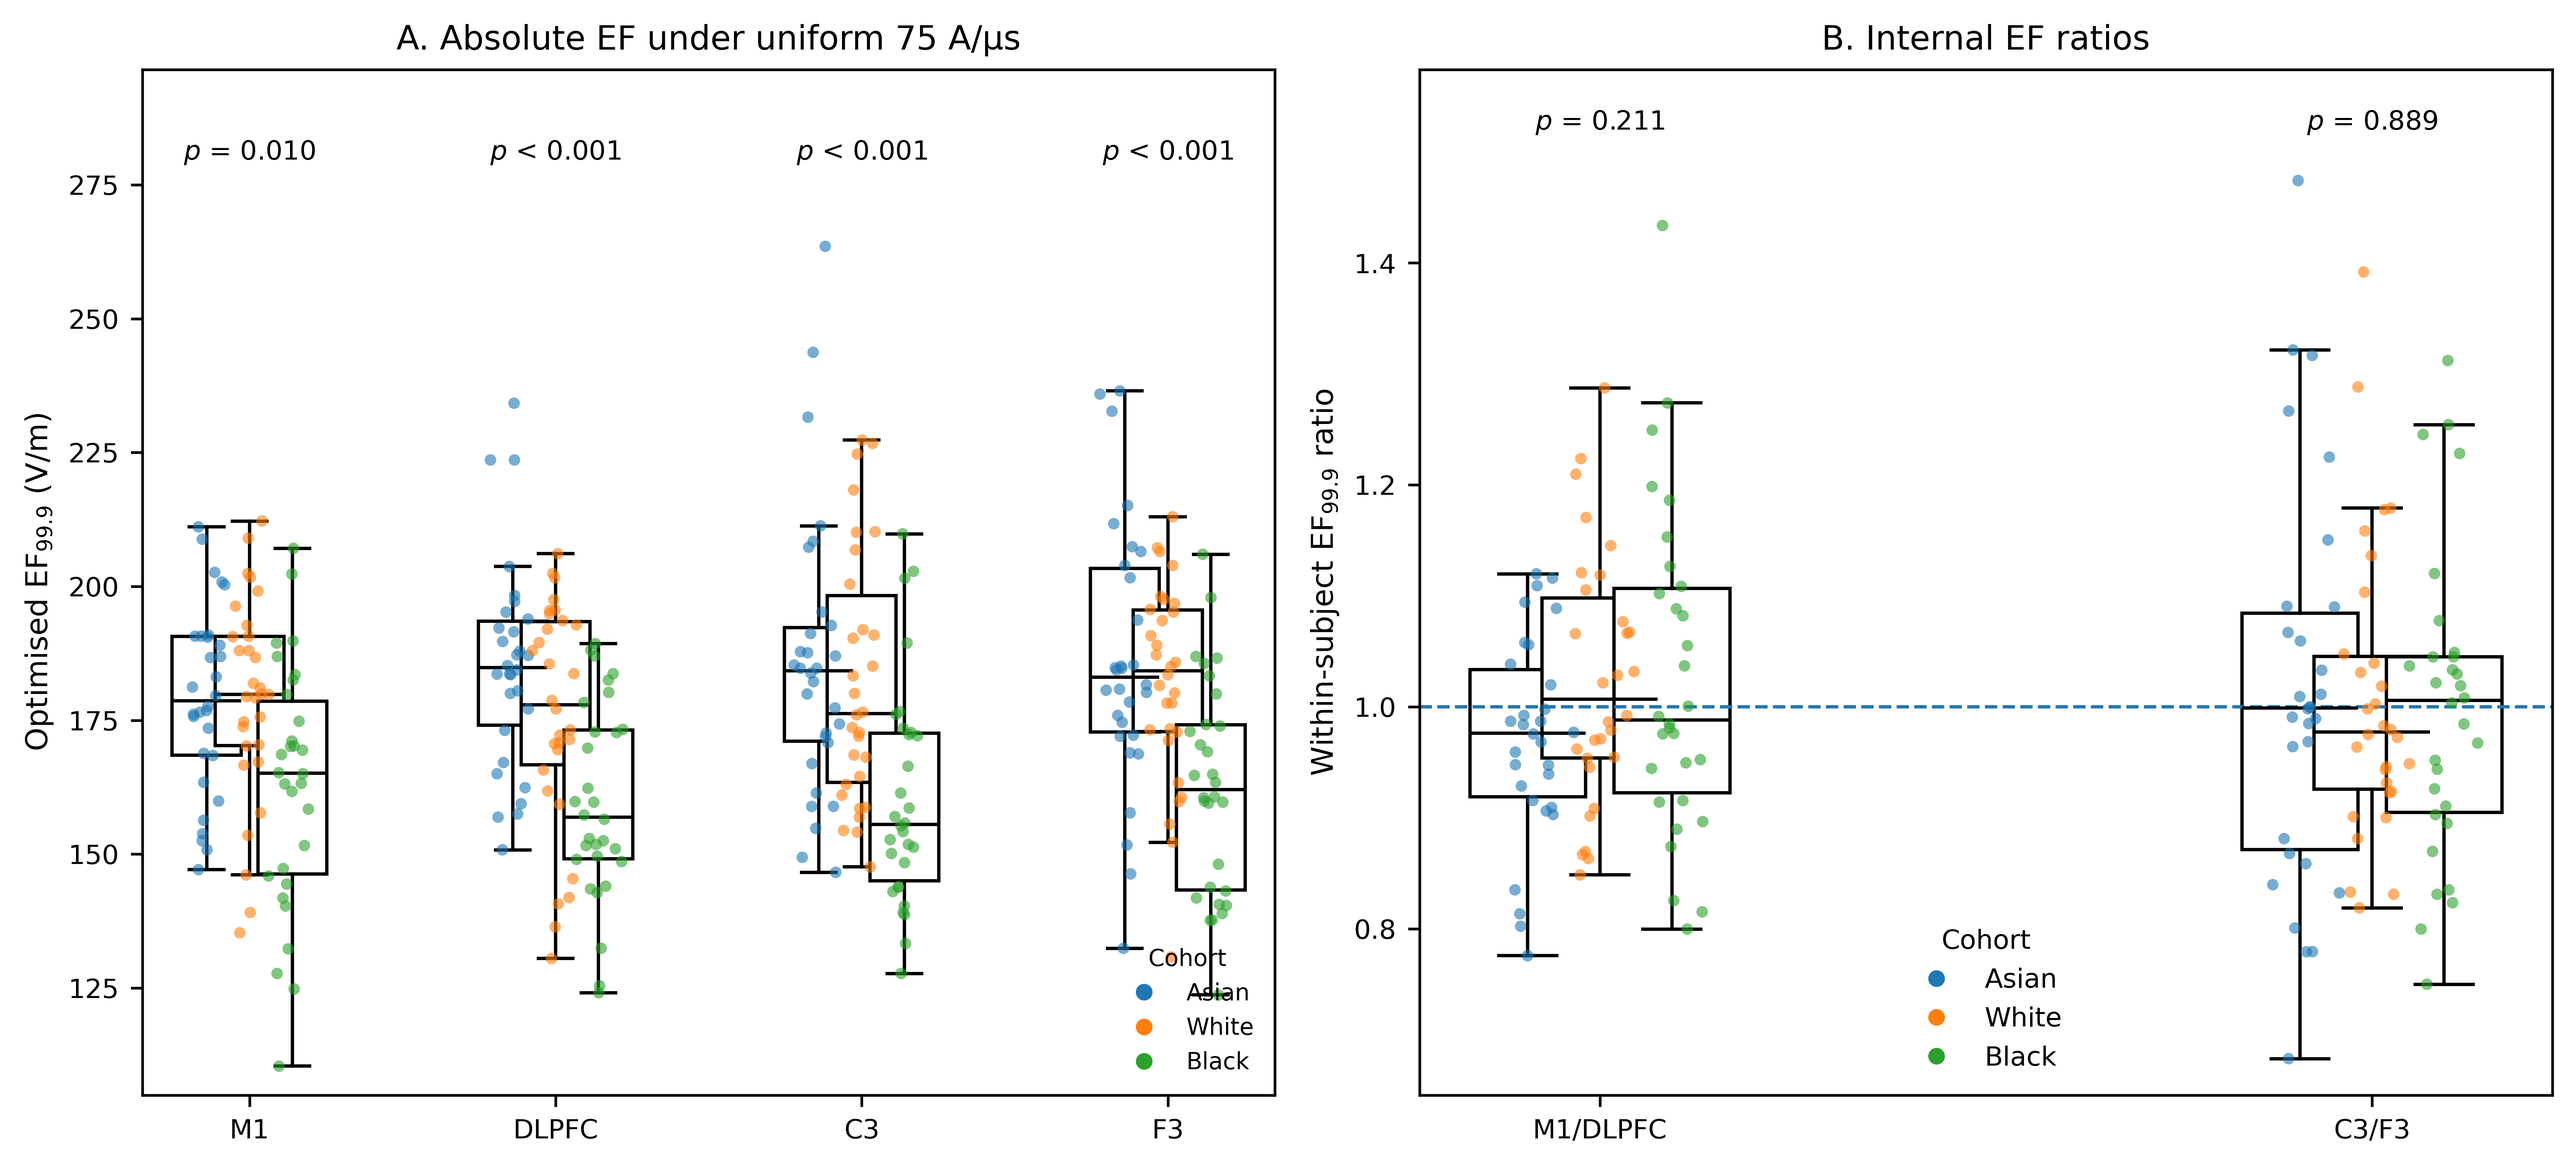
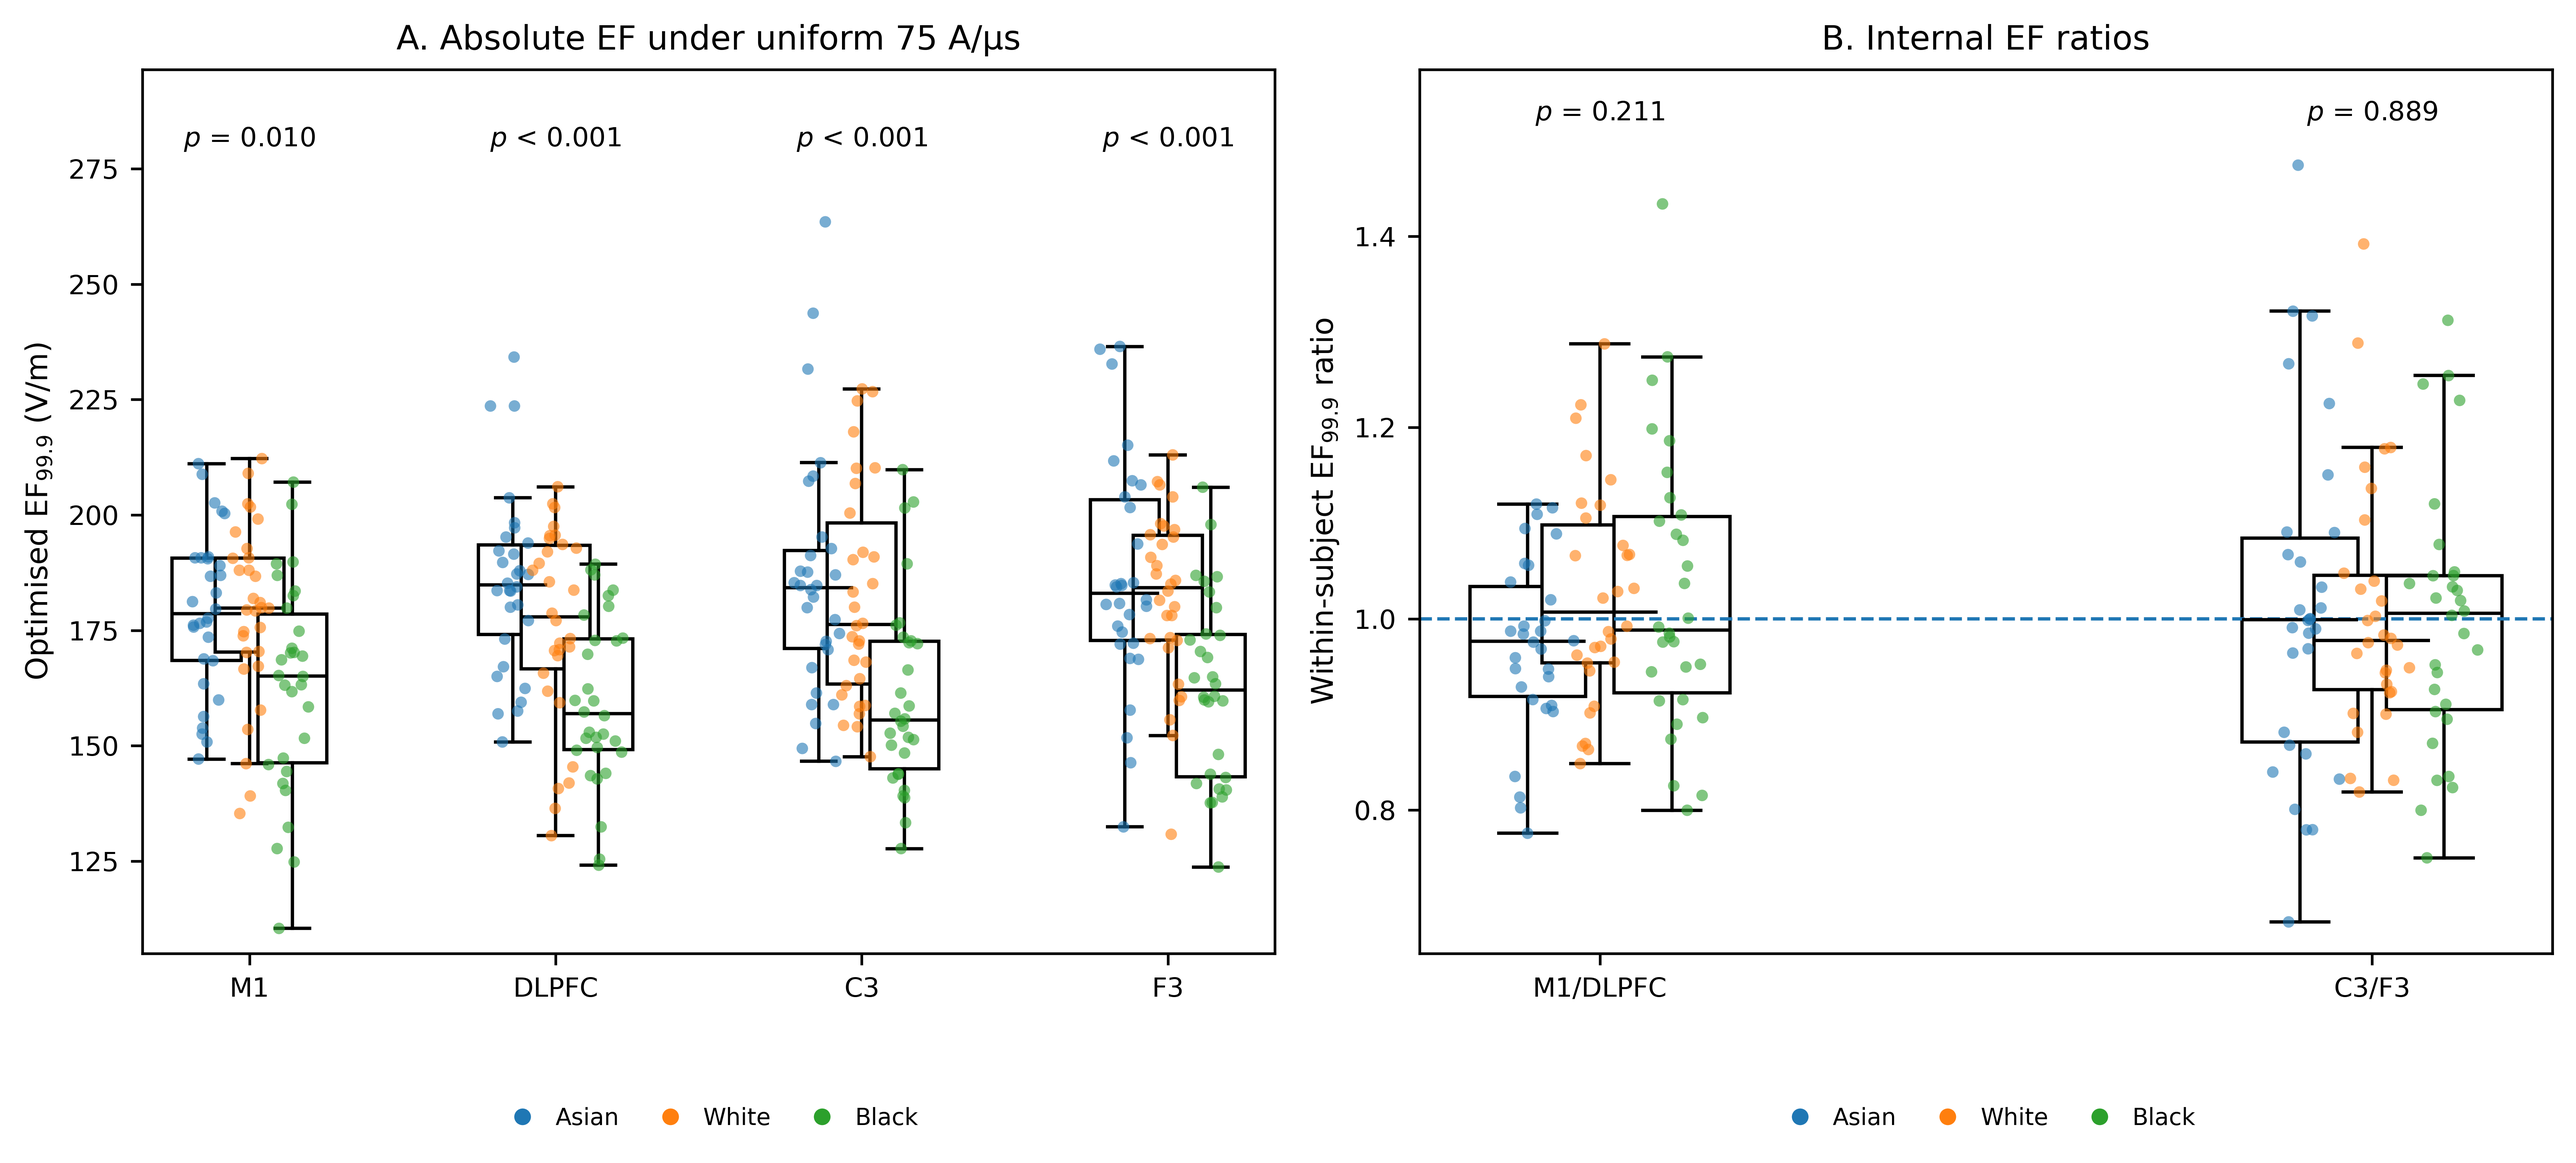
Place cohort legend horizontally below x-axis in Fig 3 A&B (outside plot area, no data overlap)

diff --git a/make_all_figures.py b/make_all_figures.py
@@ -256,8 +256,9 @@ def fig3(wide, outdir):
                       markerfacecolor=COHORT_COLORS[c],
                       markeredgecolor='none', markersize=5, label=c)
                for c in order]
-    ax.legend(handles=handles, title='Cohort', frameon=False, loc='lower right',
-              fontsize=7, title_fontsize=7)
+    ax.legend(handles=handles, frameon=False, loc='upper center',
+              bbox_to_anchor=(0.5, -0.15), ncol=3, fontsize=7,
+              columnspacing=1.2, handletextpad=0.4)
 
     ax = axes[1]
     ratio_max = max(wide['ratio_M1_DLPFC'].max(), wide['ratio_C3_F3'].max())
@@ -275,7 +276,9 @@ def fig3(wide, outdir):
     ax.set_xticks([1.0, 4.0]); ax.set_xticklabels(['M1/DLPFC', 'C3/F3'])
     ax.set_ylabel('Within-subject EF$_{99.9}$ ratio')
     ax.set_title('B. Internal EF ratios')
-    ax.legend(handles=handles, title='Cohort', frameon=False, loc='lower center')
+    ax.legend(handles=handles, frameon=False, loc='upper center',
+              bbox_to_anchor=(0.5, -0.15), ncol=3, fontsize=7,
+              columnspacing=1.2, handletextpad=0.4)
     save_both(fig, outdir, 'Figure_3')
 
 
